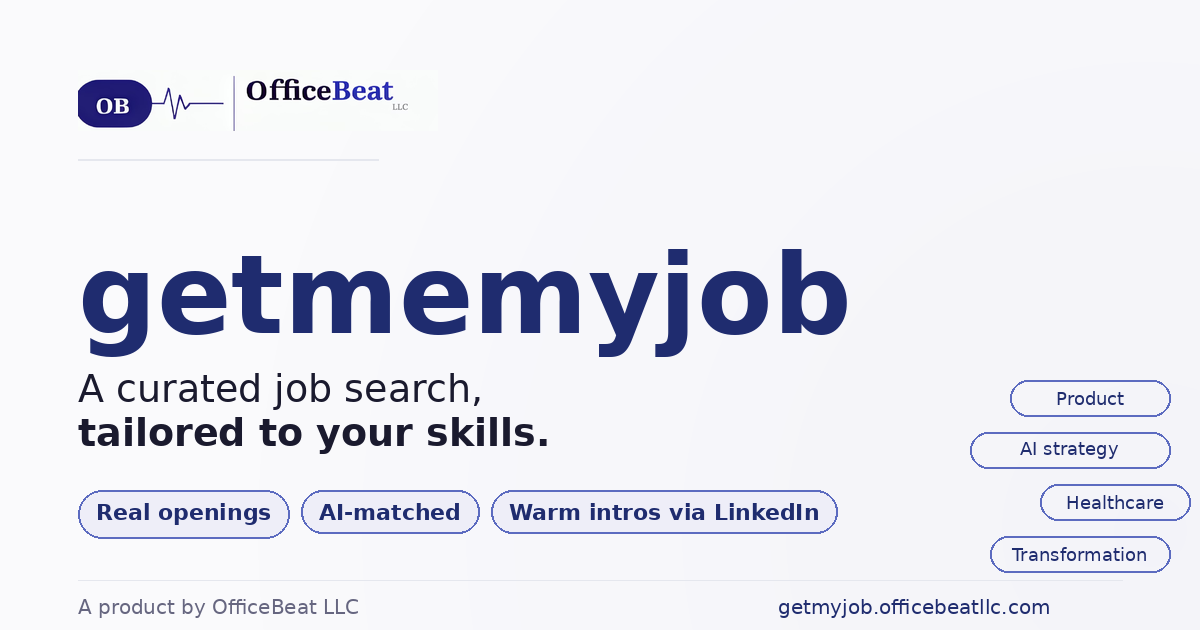
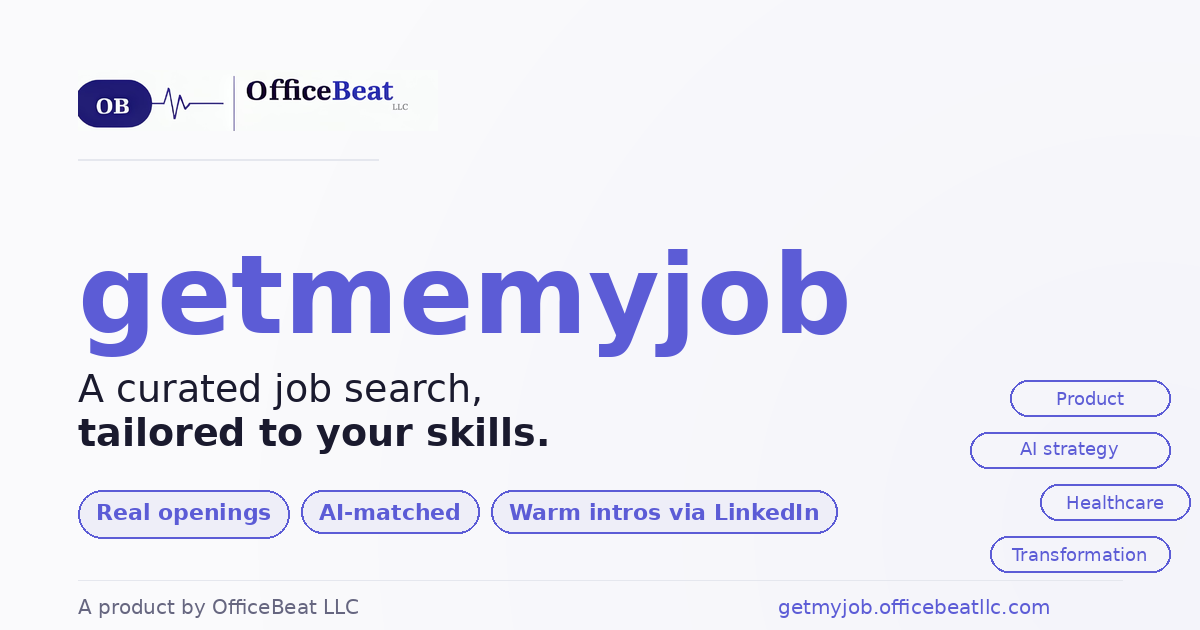
Propagate new indigo palette across getmemyjob subdomain
Unify brand color with officebeatllc.com:
- Primary indigo #5C5CD6 replaces navy #1F2C6F across:
  * fetch_jobs.py per-user dashboard template (47 instances)
  * admin.html (4 instances)
  * landing.html and index.html (homepage)
- Hover variant: #14205A -> #4B4BBE (indigo-deep)
- favicon.png + favicon-32.png: regenerated with indigo gradient
- og-card.png: regenerated with indigo wordmark and accents

After this, both officebeatllc.com (parent) and
getmyjob.officebeatllc.com (subdomain) share the same palette
from the 'Navigate Complexity, Secure Your Future' deck.

diff --git a/admin.html b/admin.html
@@ -2,12 +2,12 @@
 <html><head><meta charset="utf-8"><title>Admin · getmemyjob</title>
 <style>
   body { font: 14px -apple-system, system-ui, sans-serif; margin: 0; background: #f7f7f8; color: #222; }
-  header { background: #1F2C6F; color: white; padding: 18px 28px; }
+  header { background: #5C5CD6; color: white; padding: 18px 28px; }
   header h1 { margin: 0; font-size: 20px; }
   header .sub { opacity: .85; font-size: 13px; margin-top: 4px; }
   main { padding: 28px; max-width: 980px; margin: 0 auto; }
   .card { background: #fff; border: 1px solid #e2e5ea; border-radius: 8px; padding: 18px 22px; margin-bottom: 22px; }
-  .card h2 { margin: 0 0 12px 0; font-size: 16px; color: #1F2C6F; }
+  .card h2 { margin: 0 0 12px 0; font-size: 16px; color: #5C5CD6; }
   .row { display: flex; gap: 10px; flex-wrap: wrap; align-items: end; }
   label { display: block; font-size: 12px; font-weight: 600; color: #555; margin-bottom: 4px; }
   input[type=text], input[type=email], input[type=password] {
@@ -15,11 +15,11 @@
   }
   .field { flex: 1; min-width: 180px; }
   button {
-    background: #1F2C6F; color: #fff; border: 0; padding: 9px 16px; border-radius: 6px;
+    background: #5C5CD6; color: #fff; border: 0; padding: 9px 16px; border-radius: 6px;
     font-size: 13px; font-weight: 600; cursor: pointer;
   }
-  button:hover { background: #14205A; }
-  button.secondary { background: #f3f4f6; color: #1F2C6F; border: 1px solid #ccd0d6; }
+  button:hover { background: #4B4BBE; }
+  button.secondary { background: #f3f4f6; color: #5C5CD6; border: 1px solid #ccd0d6; }
   button.secondary:hover { background: #e6e8eb; }
   button.danger { background: #c83333; }
   button.danger:hover { background: #a02828; }

diff --git a/index.html b/index.html
@@ -23,8 +23,8 @@
 <link href="https://fonts.googleapis.com/css2?family=Inter:wght@400;500;600;700;800&display=swap" rel="stylesheet">
 <style>
   :root {
-    --navy: #1F2C6F;
-    --navy-deep: #14205A;
+    --navy: #5C5CD6;
+    --navy-deep: #4B4BBE;
     --indigo: #3F3FBA;
     --accent: #5C6BC0;
     --lilac: #E2E2F2;

diff --git a/landing.html b/landing.html
@@ -23,8 +23,8 @@
 <link href="https://fonts.googleapis.com/css2?family=Inter:wght@400;500;600;700;800&display=swap" rel="stylesheet">
 <style>
   :root {
-    --navy: #1F2C6F;
-    --navy-deep: #14205A;
+    --navy: #5C5CD6;
+    --navy-deep: #4B4BBE;
     --indigo: #3F3FBA;
     --accent: #5C6BC0;
     --lilac: #E2E2F2;

diff --git a/fetch_jobs.py b/fetch_jobs.py
@@ -1068,7 +1068,7 @@ def generate_dashboard(conn, user_slug="geetu", user_name="Geetanjali Arora", ou
         cards_html = (
             f"<div style='padding:32px;max-width:640px;margin:30px auto;background:#fff;"
             f"border:1px solid #e2e5ea;border-radius:8px;line-height:1.55;'>"
-            f"<h3 style='margin:0 0 10px 0;color:#1F2C6F;'>No matching jobs yet for {_esc(user_name)}</h3>"
+            f"<h3 style='margin:0 0 10px 0;color:#5C5CD6;'>No matching jobs yet for {_esc(user_name)}</h3>"
             f"<p style='color:#555;font-size:14px;'>Your profile industries: "
             f"<strong>{_esc(', '.join(user_industries[:5]))}</strong>. "
             f"We haven't indexed companies in these industries yet. "
@@ -1078,7 +1078,7 @@ def generate_dashboard(conn, user_slug="geetu", user_name="Geetanjali Arora", ou
         cards_html = (
             f"<div style='padding:32px;max-width:640px;margin:30px auto;background:#fff;"
             f"border:1px solid #e2e5ea;border-radius:8px;line-height:1.55;'>"
-            f"<h3 style='margin:0 0 10px 0;color:#1F2C6F;'>Welcome, {_esc(user_name)}!</h3>"
+            f"<h3 style='margin:0 0 10px 0;color:#5C5CD6;'>Welcome, {_esc(user_name)}!</h3>"
             f"<p style='color:#555;font-size:14px;'>Click the <strong>Resume</strong> button (top-right) and "
             f"upload your resume as PDF or Word. The AI will read it and start matching jobs to your background. "
             f"Your tailored dashboard will appear here after the next refresh.</p></div>"
@@ -1143,7 +1143,7 @@ def _esc(s):
 HTML_TEMPLATE = """<!doctype html>
 <html><head><meta charset="utf-8"><title>Jobs for {user_name}</title>
 <meta name="viewport" content="width=device-width, initial-scale=1, viewport-fit=cover">
-<meta name="theme-color" content="#1F2C6F">
+<meta name="theme-color" content="#5C5CD6">
 <link rel="icon" type="image/png" sizes="32x32" href="favicon-32.png">
 <link rel="icon" type="image/png" sizes="256x256" href="favicon.png">
 <link rel="apple-touch-icon" href="favicon.png">
@@ -1157,7 +1157,7 @@ HTML_TEMPLATE = """<!doctype html>
 <meta name="twitter:image" content="https://getmyjob.officebeatllc.com/og-card.png">
 <style>
   body {{ font: 14px -apple-system, system-ui, sans-serif; margin: 0; background: #f7f7f8; color: #222; }}
-  header {{ background: #1F2C6F; color: white; padding: 18px 28px; position: relative; }}
+  header {{ background: #5C5CD6; color: white; padding: 18px 28px; position: relative; }}
   header h1 {{ margin: 0; font-size: 20px; }}
   header .sub {{ opacity: .85; font-size: 13px; margin-top: 4px; }}
   .header-actions {{ position: absolute; right: 28px; top: 50%; transform: translateY(-50%); display: flex; gap: 8px; }}
@@ -1166,19 +1166,19 @@ HTML_TEMPLATE = """<!doctype html>
   .header-btn:disabled {{ opacity: 0.5; cursor: not-allowed; }}
   .stats {{ display: flex; gap: 24px; padding: 14px 28px; background: white; border-bottom: 1px solid #e5e5ea; }}
   .stat {{ font-size: 13px; }}
-  .stat b {{ font-size: 22px; display: block; color: #1F2C6F; }}
+  .stat b {{ font-size: 22px; display: block; color: #5C5CD6; }}
   .filters {{ padding: 12px 28px; background: white; border-bottom: 1px solid #e5e5ea; display: flex; gap: 12px; }}
   .filters input, .filters select {{ padding: 6px 10px; font-size: 13px; border: 1px solid #ddd; border-radius: 6px; }}
   .grid {{ padding: 18px 28px; display: grid; grid-template-columns: repeat(auto-fill, minmax(380px, 1fr)); gap: 14px; }}
   .card {{ background: white; border-radius: 10px; padding: 14px; box-shadow: 0 1px 3px rgba(0,0,0,0.06); }}
   .row1 {{ display: flex; justify-content: space-between; align-items: flex-start; gap: 8px; }}
-  .title a {{ color: #1F2C6F; text-decoration: none; font-weight: 600; font-size: 15px; }}
+  .title a {{ color: #5C5CD6; text-decoration: none; font-weight: 600; font-size: 15px; }}
   .title a:hover {{ text-decoration: underline; }}
-  .score {{ background: #1F2C6F; color: white; border-radius: 999px; padding: 2px 10px; font-size: 12px; font-weight: 600; }}
+  .score {{ background: #5C5CD6; color: white; border-radius: 999px; padding: 2px 10px; font-size: 12px; font-weight: 600; }}
   .row2 {{ font-size: 12px; color: #666; margin-top: 4px; }}
   .badges {{ margin: 8px 0; display: flex; flex-wrap: wrap; gap: 6px; }}
   .b {{ font-size: 11px; padding: 2px 8px; border-radius: 999px; }}
-  .b.senior {{ background: #e6f0ff; color: #1F2C6F; }}
+  .b.senior {{ background: #e6f0ff; color: #5C5CD6; }}
   .b.remote {{ background: #e6fff0; color: #0a6b3a; }}
   .b.contract {{ background: #f3e6ff; color: #5a1f8a; }}
   .b.ghost {{ background: #fff1e6; color: #a85c00; }}
@@ -1186,12 +1186,12 @@ HTML_TEMPLATE = """<!doctype html>
   .b.fresh {{ background: #fffbe6; color: #8a6d00; font-weight: 600; }}
   .b.week {{ background: #f0e6ff; color: #4b2e9c; }}
   .pill {{ font-size: 12px; padding: 5px 12px; border-radius: 999px; border: 1px solid #ddd; background: white; cursor: pointer; }}
-  .pill.active {{ background: #1F2C6F; color: white; border-color: #1F2C6F; }}
+  .pill.active {{ background: #5C5CD6; color: white; border-color: #5C5CD6; }}
   .actions {{ margin-top: 10px; display: flex; gap: 6px; flex-wrap: wrap; }}
   .btn {{ font-size: 12px; padding: 6px 10px; border-radius: 6px; border: 1px solid #ddd; background: white; cursor: pointer; color: #333; text-decoration: none; display: inline-block; }}
   .btn:hover {{ background: #f0f0f0; }}
-  .btn.primary {{ background: #1F2C6F; color: white; border-color: #1F2C6F; }}
-  .btn.primary:hover {{ background: #14205A; }}
+  .btn.primary {{ background: #5C5CD6; color: white; border-color: #5C5CD6; }}
+  .btn.primary:hover {{ background: #4B4BBE; }}
   .btn.track.applied {{ background: #0a6b3a; color: white; border-color: #0a6b3a; }}
   .btn.track.phonescreen {{ background: #c97a00; color: white; border-color: #c97a00; }}
   .btn.track.onsite {{ background: #7a009c; color: white; border-color: #7a009c; }}
@@ -1214,7 +1214,7 @@ HTML_TEMPLATE = """<!doctype html>
   .app-stat.onsite {{ background: #ead4ff; color: #4b2e9c; }}
   .app-stat.offer {{ background: #ffd9b3; color: #a04500; }}
   .app-stat.rejected {{ background: #e8e8e8; color: #666; }}
-  .app-stat.response {{ background: #1F2C6F; color: white; }}
+  .app-stat.response {{ background: #5C5CD6; color: white; }}
   body.apps-mode .card[data-status="offer"] {{ order: 1; }}
   body.apps-mode .card[data-status="onsite"] {{ order: 2; }}
   body.apps-mode .card[data-status="phonescreen"] {{ order: 3; }}
@@ -1223,7 +1223,7 @@ HTML_TEMPLATE = """<!doctype html>
   .modal-overlay {{ display: none; position: fixed; top: 0; left: 0; right: 0; bottom: 0; background: rgba(0,0,0,0.5); z-index: 100; align-items: center; justify-content: center; padding: 20px; }}
   .modal-overlay.show {{ display: flex; }}
   .modal {{ background: white; border-radius: 12px; padding: 24px; max-width: 600px; width: 100%; max-height: 80vh; overflow-y: auto; }}
-  .modal h3 {{ margin: 0 0 12px 0; color: #1F2C6F; }}
+  .modal h3 {{ margin: 0 0 12px 0; color: #5C5CD6; }}
   .modal pre {{ background: #f5f5f5; padding: 12px; border-radius: 6px; font-size: 12px; overflow-x: auto; white-space: pre-wrap; word-break: break-all; }}
   .modal .copy-btn {{ margin-top: 10px; }}
   .modal-close {{ float: right; cursor: pointer; font-size: 22px; line-height: 1; color: #999; }}
@@ -1232,44 +1232,44 @@ HTML_TEMPLATE = """<!doctype html>
   .prep-status.error {{ color: #a80000; }}
   .prep-section {{ margin: 18px 0; padding-bottom: 18px; border-bottom: 1px solid #eee; }}
   .prep-section:last-child {{ border-bottom: none; }}
-  .prep-label {{ font-size: 12px; font-weight: 700; color: #1F2C6F; text-transform: uppercase; letter-spacing: 0.5px; margin-bottom: 6px; }}
+  .prep-label {{ font-size: 12px; font-weight: 700; color: #5C5CD6; text-transform: uppercase; letter-spacing: 0.5px; margin-bottom: 6px; }}
   .prep-text {{ background: #f7f7f8; padding: 12px; border-radius: 6px; font-size: 13px; white-space: pre-wrap; word-wrap: break-word; line-height: 1.5; font-family: inherit; max-height: 260px; overflow-y: auto; margin: 0 0 8px 0; }}
   .desc {{ font-size: 12.5px; color: #444; margin-top: 6px; line-height: 1.4; }}
   .salary-row {{ margin: 6px 0 2px 0; }}
   .salary {{ display: inline-block; background: #e6fff0; color: #0a6b3a; padding: 2px 10px; border-radius: 6px; font-size: 12px; font-weight: 600; }}
   .tabs {{ display: flex; gap: 4px; border-bottom: 1px solid #e0e0e0; margin: 10px 0 16px 0; }}
   .tab-btn {{ background: none; border: none; padding: 8px 14px; cursor: pointer; font-size: 13px; color: #666; border-bottom: 2px solid transparent; font-weight: 500; }}
-  .tab-btn.active {{ color: #1F2C6F; border-bottom-color: #1F2C6F; font-weight: 700; }}
+  .tab-btn.active {{ color: #5C5CD6; border-bottom-color: #5C5CD6; font-weight: 700; }}
   .tab-panel {{ display: none; }}
   .tab-panel.active {{ display: block; }}
   .dropzone {{ display: block; box-sizing: border-box; width: 100%; border: 2px dashed #c0c8d4; border-radius: 8px; padding: 28px 16px; text-align: center; background: #fafbfc; transition: all 0.15s; cursor: pointer; }}
-  .dropzone:hover, .dropzone.drag {{ background: #eef3fa; border-color: #1F2C6F; }}
-  .dropzone strong {{ display: block; font-size: 14px; color: #1F2C6F; margin-bottom: 4px; }}
+  .dropzone:hover, .dropzone.drag {{ background: #eef3fa; border-color: #5C5CD6; }}
+  .dropzone strong {{ display: block; font-size: 14px; color: #5C5CD6; margin-bottom: 4px; }}
   .dropzone span {{ display: block; font-size: 12px; color: #666; }}
   .version-row {{ display: flex; align-items: center; gap: 10px; padding: 10px 12px; border: 1px solid #e6e8eb; border-radius: 6px; margin-bottom: 6px; background: #fff; }}
-  .version-row.active {{ border-color: #1F2C6F; background: #f3f7fc; }}
+  .version-row.active {{ border-color: #5C5CD6; background: #f3f7fc; }}
   .version-main {{ flex: 1; min-width: 0; }}
-  .version-label {{ font-weight: 600; font-size: 13px; color: #1F2C6F; white-space: nowrap; overflow: hidden; text-overflow: ellipsis; }}
+  .version-label {{ font-weight: 600; font-size: 13px; color: #5C5CD6; white-space: nowrap; overflow: hidden; text-overflow: ellipsis; }}
   .version-meta {{ font-size: 11px; color: #777; margin-top: 2px; }}
-  .version-badge {{ background: #1F2C6F; color: white; font-size: 10px; padding: 2px 7px; border-radius: 10px; font-weight: 700; letter-spacing: 0.3px; }}
+  .version-badge {{ background: #5C5CD6; color: white; font-size: 10px; padding: 2px 7px; border-radius: 10px; font-weight: 700; letter-spacing: 0.3px; }}
   .version-actions {{ display: flex; gap: 4px; }}
   .v-btn {{ background: #f3f4f6; border: 1px solid #ddd; color: #333; padding: 5px 10px; border-radius: 4px; font-size: 11px; cursor: pointer; font-weight: 500; }}
   .v-btn:hover {{ background: #e6e8eb; }}
   .v-btn.danger {{ color: #b00; }}
-  .v-btn.primary {{ background: #1F2C6F; color: white; border-color: #1F2C6F; }}
+  .v-btn.primary {{ background: #5C5CD6; color: white; border-color: #5C5CD6; }}
   /* LinkedIn contacts feature */
   .contact-badge {{ display: inline-flex; align-items: center; gap: 4px; background: #eaf2fb; color: #0a66c2; border: 1px solid #c9defb; padding: 2px 8px; border-radius: 10px; font-size: 11px; font-weight: 600; cursor: pointer; margin-left: 8px; transition: all 0.12s; }}
   .contact-badge:hover {{ background: #d8e7f8; border-color: #0a66c2; }}
   .contact-badge .ic {{ font-size: 12px; line-height: 1; }}
   .contact-row {{ display: flex; flex-direction: column; gap: 6px; padding: 12px 14px; border: 1px solid #e6e8eb; border-radius: 8px; margin-bottom: 10px; background: #fff; }}
   .contact-row .name-line {{ display: flex; justify-content: space-between; align-items: baseline; gap: 10px; flex-wrap: wrap; }}
-  .contact-row .cname {{ font-weight: 700; color: #1F2C6F; font-size: 14px; }}
+  .contact-row .cname {{ font-weight: 700; color: #5C5CD6; font-size: 14px; }}
   .contact-row .ctitle {{ font-size: 12px; color: #555; }}
   .contact-row .cmeta {{ font-size: 11px; color: #888; }}
   .contact-row .crow-actions {{ display: flex; gap: 6px; flex-wrap: wrap; margin-top: 4px; }}
   .contact-row .msg-box {{ background: #f7f9fc; border: 1px solid #e2e7ef; border-radius: 6px; padding: 10px 12px; font-size: 12.5px; line-height: 1.55; color: #1f2a3a; white-space: pre-wrap; font-family: ui-sans-serif, system-ui, sans-serif; margin-top: 6px; }}
   .contact-empty {{ padding: 18px; text-align: center; color: #777; font-size: 13px; }}
-  .contact-summary {{ background:#f3f7fc; border:1px solid #d6e1f1; border-radius:8px; padding:10px 14px; font-size:12px; color:#1F2C6F; margin-bottom:14px; display:flex; justify-content:space-between; align-items:center; gap:10px; flex-wrap:wrap; }}
+  .contact-summary {{ background:#f3f7fc; border:1px solid #d6e1f1; border-radius:8px; padding:10px 14px; font-size:12px; color:#5C5CD6; margin-bottom:14px; display:flex; justify-content:space-between; align-items:center; gap:10px; flex-wrap:wrap; }}
   .contact-summary .clear-btn {{ background: transparent; border: 1px solid #c9defb; color: #0a66c2; padding: 3px 10px; border-radius: 4px; font-size: 11px; cursor: pointer; }}
   .contact-summary .clear-btn:hover {{ background: #fff; }}
   /* ---- First-login wizard ---- */
@@ -1280,22 +1280,22 @@ HTML_TEMPLATE = """<!doctype html>
   .wiz-progress {{ display: flex; gap: 6px; margin-bottom: 22px; }}
   .wiz-progress .dot {{ width: 28px; height: 4px; border-radius: 2px; background: #E2E2F2; }}
   .wiz-progress .dot.done {{ background: #5C6BC0; }}
-  .wiz-progress .dot.active {{ background: #1F2C6F; }}
-  .wiz-title {{ font-size: 24px; font-weight: 700; color: #1F2C6F; margin: 0 0 10px 0; line-height: 1.2; }}
+  .wiz-progress .dot.active {{ background: #5C5CD6; }}
+  .wiz-title {{ font-size: 24px; font-weight: 700; color: #5C5CD6; margin: 0 0 10px 0; line-height: 1.2; }}
   .wiz-body {{ font-size: 14.5px; color: #333; line-height: 1.55; margin: 0 0 22px 0; }}
   .wiz-body p {{ margin: 0 0 10px 0; }}
   .wiz-body ul {{ padding-left: 20px; margin: 8px 0; }}
   .wiz-body li {{ margin-bottom: 4px; }}
-  .wiz-body strong {{ color: #1F2C6F; }}
+  .wiz-body strong {{ color: #5C5CD6; }}
   .wiz-actions {{ display: flex; gap: 10px; align-items: center; flex-wrap: wrap; }}
-  .wiz-btn-primary {{ background: #1F2C6F; color: #fff; border: none; padding: 11px 22px; border-radius: 8px; font-size: 14px; font-weight: 600; cursor: pointer; }}
-  .wiz-btn-primary:hover {{ background: #14205A; }}
+  .wiz-btn-primary {{ background: #5C5CD6; color: #fff; border: none; padding: 11px 22px; border-radius: 8px; font-size: 14px; font-weight: 600; cursor: pointer; }}
+  .wiz-btn-primary:hover {{ background: #4B4BBE; }}
   .wiz-btn-ghost {{ background: transparent; color: #666; border: none; padding: 11px 14px; font-size: 13.5px; cursor: pointer; }}
-  .wiz-btn-ghost:hover {{ color: #1F2C6F; text-decoration: underline; }}
+  .wiz-btn-ghost:hover {{ color: #5C5CD6; text-decoration: underline; }}
   .wiz-skip {{ margin-left: auto; }}
   .wiz-help-btn {{ background: rgba(255,255,255,0.15); border: 1px solid rgba(255,255,255,0.3); color: white; width: 32px; height: 32px; border-radius: 50%; font-size: 14px; font-weight: 700; cursor: pointer; padding: 0; display: inline-flex; align-items: center; justify-content: center; }}
   .wiz-help-btn:hover {{ background: rgba(255,255,255,0.28); }}
-  .wiz-banner {{ position: fixed; top: 80px; left: 50%; transform: translateX(-50%); background: #1F2C6F; color: #fff; padding: 14px 22px; border-radius: 8px; box-shadow: 0 6px 20px rgba(0,0,0,0.25); z-index: 200; font-size: 14px; font-weight: 500; max-width: 90%; text-align: center; }}
+  .wiz-banner {{ position: fixed; top: 80px; left: 50%; transform: translateX(-50%); background: #5C5CD6; color: #fff; padding: 14px 22px; border-radius: 8px; box-shadow: 0 6px 20px rgba(0,0,0,0.25); z-index: 200; font-size: 14px; font-weight: 500; max-width: 90%; text-align: center; }}
 
   /* ---- Mobile responsive ---- */
   @media (max-width: 640px) {{
@@ -1471,7 +1471,7 @@ HTML_TEMPLATE = """<!doctype html>
         <div id="profile-display"><p style="font-size:12px;color:#888;">Loading profile…</p></div>
         <div id="profile-actions" style="margin-top:14px; display:flex; gap:8px; flex-wrap:wrap;">
           <button class="btn primary" id="edit-profile-btn" onclick="openEditProfileModal()">Edit profile</button>
-          <button class="btn" id="regen-profile-btn" onclick="regenerateProfile(this)" style="background:#f3f4f6;color:#1F2C6F;border:1px solid #ccd0d6;">Regenerate from resume</button>
+          <button class="btn" id="regen-profile-btn" onclick="regenerateProfile(this)" style="background:#f3f4f6;color:#5C5CD6;border:1px solid #ccd0d6;">Regenerate from resume</button>
           <span id="regen-profile-status" style="font-size: 12px; color: #555;"></span>
         </div>
       </div>
@@ -1479,12 +1479,12 @@ HTML_TEMPLATE = """<!doctype html>
       <!-- Edit profile modal -->
       <div id="edit-profile-overlay" style="display:none; position:fixed; inset:0; background:rgba(20,30,50,0.45); z-index:60; align-items:center; justify-content:center;" onclick="if(event.target===this)closeEditProfileModal()">
         <div style="background:#fff; padding:24px 28px; border-radius:10px; max-width:640px; width:100%; margin:12px; max-height:88vh; overflow-y:auto; box-shadow:0 24px 60px rgba(0,0,0,0.2);">
-          <h3 style="margin:0 0 6px 0; color:#1F2C6F;">Edit your profile</h3>
+          <h3 style="margin:0 0 6px 0; color:#5C5CD6;">Edit your profile</h3>
           <p style="font-size:13px; color:#555; margin:0 0 16px 0;">Each field is a comma-separated list. Add things the AI missed (e.g. NIST CSF, HIPAA, ISO 27001). Remove anything inaccurate. Saving updates the profile used for job matching.</p>
           <div id="edit-profile-fields"></div>
           <div style="margin-top:18px; display:flex; gap:8px; flex-wrap:wrap;">
             <button class="btn primary" onclick="saveProfileEdits()">Save changes</button>
-            <button class="btn" onclick="closeEditProfileModal()" style="background:#f3f4f6;color:#1F2C6F;border:1px solid #ccd0d6;">Cancel</button>
+            <button class="btn" onclick="closeEditProfileModal()" style="background:#f3f4f6;color:#5C5CD6;border:1px solid #ccd0d6;">Cancel</button>
             <span id="edit-profile-status" style="font-size:12px;color:#555;align-self:center;"></span>
           </div>
         </div>
@@ -1760,7 +1760,7 @@ function refreshTrackerUI() {{
         detailsBtn = document.createElement('button');
         detailsBtn.className = 'btn details-btn';
         detailsBtn.textContent = 'Details';
-        detailsBtn.style.cssText = 'background:#f3f4f6;color:#1F2C6F;border:1px solid #ccd0d6;';
+        detailsBtn.style.cssText = 'background:#f3f4f6;color:#5C5CD6;border:1px solid #ccd0d6;';
         detailsBtn.onclick = (e) => {{ e.stopPropagation(); openAppDetail(fp); }};
         const actions = card.querySelector('.actions');
         if (actions) actions.insertBefore(detailsBtn, actions.querySelector('.ghost-btn'));
@@ -1822,7 +1822,7 @@ function renderFunnel(counts) {{
   const c_offer = counts.offer;
   function stage(label, count, prevCount, color) {{
     const pct = prevCount > 0 ? Math.round(100 * count / prevCount) + '%' : '';
-    return '<div class="funnel-stage" style="flex:1; background:' + color + '; padding:10px 14px; border-radius:8px; color:#1F2C6F; min-width:0;">' +
+    return '<div class="funnel-stage" style="flex:1; background:' + color + '; padding:10px 14px; border-radius:8px; color:#5C5CD6; min-width:0;">' +
       '<div style="font-size:11px; text-transform:uppercase; letter-spacing:0.5px; color:#666; font-weight:600;">' + label + '</div>' +
       '<div style="font-size:22px; font-weight:700; line-height:1.1; margin-top:2px;">' + count + '</div>' +
       (pct ? '<div style="font-size:11px; color:#666; margin-top:2px;">' + pct + ' from prev</div>' : '<div style="font-size:11px; color:#999; margin-top:2px;">&nbsp;</div>') +
@@ -2062,7 +2062,7 @@ function _renderInterviewPrep(qs) {{
   return qs.map((q, i) => {{
     const type = q.type || '';
     return '<div class="prep-section">' +
-      '<div class="prep-label">' + (i+1) + '. ' + _esc(q.q || '') + (type ? ' <span style="background:#eef; color:#1F2C6F; padding:1px 7px; border-radius:10px; font-size:10px; margin-left:6px;">' + type + '</span>' : '') + '</div>' +
+      '<div class="prep-label">' + (i+1) + '. ' + _esc(q.q || '') + (type ? ' <span style="background:#eef; color:#5C5CD6; padding:1px 7px; border-radius:10px; font-size:10px; margin-left:6px;">' + type + '</span>' : '') + '</div>' +
       '<pre class="prep-text">' + _esc(q.a || '') + '</pre>' +
       '</div>';
   }}).join('');
@@ -2239,7 +2239,7 @@ async function loadProfile() {{
       el.innerHTML =
         '<div style="background:#f3f7fc;border:1px solid #d6e1f1;border-radius:10px;padding:22px 24px;text-align:center;">' +
           '<div style="font-size:36px;line-height:1;margin-bottom:8px;">📄</div>' +
-          '<div style="font-size:15px;font-weight:600;color:#1F2C6F;margin-bottom:6px;">No skills profile yet</div>' +
+          '<div style="font-size:15px;font-weight:600;color:#5C5CD6;margin-bottom:6px;">No skills profile yet</div>' +
           '<div style="font-size:13px;color:#555;margin-bottom:16px;line-height:1.5;">Upload your resume (PDF or Word) and our AI will extract your target roles, industries, skills, technologies, and regulations — so the dashboard only shows jobs that actually match you.</div>' +
           '<button class="btn primary" onclick="setResumeTab(\\'upload\\')" style="padding:10px 22px;font-size:13.5px;">Upload your resume →</button>' +
         '</div>';
@@ -2261,19 +2261,19 @@ function _renderProfileHTML(p) {{
     const chips = items.map(s => {{
       const safe = _esc(s);
       const jsSafe = String(s).replace(/'/g, "\\\\'").replace(/"/g, '&quot;');
-      return '<span style="display:inline-flex;align-items:center;background:' + color + ';color:#1F2C6F;padding:3px 4px 3px 9px;border-radius:12px;font-size:11.5px;margin:2px 4px 2px 0;font-weight:500;">' +
+      return '<span style="display:inline-flex;align-items:center;background:' + color + ';color:#5C5CD6;padding:3px 4px 3px 9px;border-radius:12px;font-size:11.5px;margin:2px 4px 2px 0;font-weight:500;">' +
              safe +
              (fieldKey ? '<button onclick="removeChip(\\''+ fieldKey +'\\', \\''+ jsSafe +'\\')" style="background:none;border:0;color:#888;cursor:pointer;padding:0 0 0 6px;font-size:14px;line-height:1;font-weight:600;" title="Remove">&times;</button>' : '') +
              '</span>';
     }}).join('');
     const addBtn = fieldKey
-      ? '<button onclick="addChip(\\''+ fieldKey +'\\')" style="display:inline-block;background:#fafbfc;border:1px dashed #c0c8d4;color:#1F2C6F;padding:3px 11px;border-radius:12px;font-size:11.5px;cursor:pointer;font-weight:500;margin:2px 4px 2px 0;">+ Add</button>'
+      ? '<button onclick="addChip(\\''+ fieldKey +'\\')" style="display:inline-block;background:#fafbfc;border:1px dashed #c0c8d4;color:#5C5CD6;padding:3px 11px;border-radius:12px;font-size:11.5px;cursor:pointer;font-weight:500;margin:2px 4px 2px 0;">+ Add</button>'
       : '';
     const count = items.length > 0 ? (' <span style="color:#999;font-weight:500;">· ' + items.length + '</span>') : '';
     return '<div style="margin-bottom:12px;"><div style="font-size:11px;font-weight:700;color:#555;text-transform:uppercase;letter-spacing:0.4px;margin-bottom:4px;">' + title + count + '</div><div>' + chips + addBtn + '</div></div>';
   }}
   let html = '';
-  if (p.primaryRole) html += '<div style="font-size:14px;color:#1F2C6F;font-weight:600;margin-bottom:4px;">' + _esc(p.primaryRole) + '</div>';
+  if (p.primaryRole) html += '<div style="font-size:14px;color:#5C5CD6;font-weight:600;margin-bottom:4px;">' + _esc(p.primaryRole) + '</div>';
   if (p.summary) html += '<div style="font-size:13px;color:#555;margin-bottom:14px;line-height:1.45;">' + _esc(p.summary) + '</div>';
   html += '<div style="background:#f8f9fb;padding:14px 16px;border-radius:8px;border:1px solid #e6e8eb;">';
   if (p.seniorityLevel) html += '<div style="font-size:12px;color:#777;margin-bottom:8px;">Seniority: <strong style="color:#333;">' + _esc(p.seniorityLevel) + '</strong>' + (p.salaryFloor ? ' · Salary floor ~$' + Number(p.salaryFloor).toLocaleString() : '') + (p.remotePreferred ? ' · Remote preferred' : '') + '</div>';
@@ -2885,18 +2885,18 @@ function _renderResumeHTML(r) {{
   const contact = [p.location, p.phone, p.email, p.linkedin].filter(Boolean).map(x => _escHtml(x)).join(' &nbsp;·&nbsp; ');
   let html = '';
   html += '<div style="text-align:center; margin-bottom:14px;">';
-  html += '<div style="font-size:20px; font-weight:700; color:#1F2C6F; letter-spacing:0.3px;">' + _escHtml(p.name || '') + '</div>';
+  html += '<div style="font-size:20px; font-weight:700; color:#5C5CD6; letter-spacing:0.3px;">' + _escHtml(p.name || '') + '</div>';
   if (contact) html += '<div style="font-size:11.5px; color:#555; margin-top:4px;">' + contact + '</div>';
   html += '</div>';
   if (r.summary) {{
     html += '<div style="margin-bottom:12px;">' + _escHtml(r.summary) + '</div>';
   }}
   if (r.skills && r.skills.length) {{
-    html += '<div style="margin-bottom:14px;"><div style="font-weight:700; color:#1F2C6F; font-size:12px; text-transform:uppercase; letter-spacing:0.5px; border-bottom:1px solid #d0d6e0; padding-bottom:3px; margin-bottom:6px;">Core Skills</div>';
+    html += '<div style="margin-bottom:14px;"><div style="font-weight:700; color:#5C5CD6; font-size:12px; text-transform:uppercase; letter-spacing:0.5px; border-bottom:1px solid #d0d6e0; padding-bottom:3px; margin-bottom:6px;">Core Skills</div>';
     html += '<div style="font-size:12.5px;">' + r.skills.map(s => _escHtml(s)).join(' &nbsp;·&nbsp; ') + '</div></div>';
   }}
   if (r.experience && r.experience.length) {{
-    html += '<div style="margin-bottom:14px;"><div style="font-weight:700; color:#1F2C6F; font-size:12px; text-transform:uppercase; letter-spacing:0.5px; border-bottom:1px solid #d0d6e0; padding-bottom:3px; margin-bottom:6px;">Experience</div>';
+    html += '<div style="margin-bottom:14px;"><div style="font-weight:700; color:#5C5CD6; font-size:12px; text-transform:uppercase; letter-spacing:0.5px; border-bottom:1px solid #d0d6e0; padding-bottom:3px; margin-bottom:6px;">Experience</div>';
     r.experience.forEach(exp => {{
       html += '<div style="margin-bottom:10px;">';
       html += '<div style="display:flex; justify-content:space-between; gap:10px;"><div><strong>' + _escHtml(exp.title || '') + '</strong> — ' + _escHtml(exp.company || '') + (exp.location ? '<span style="color:#666;"> (' + _escHtml(exp.location) + ')</span>' : '') + '</div>';
@@ -2911,7 +2911,7 @@ function _renderResumeHTML(r) {{
     html += '</div>';
   }}
   if (r.education && r.education.length) {{
-    html += '<div style="margin-bottom:12px;"><div style="font-weight:700; color:#1F2C6F; font-size:12px; text-transform:uppercase; letter-spacing:0.5px; border-bottom:1px solid #d0d6e0; padding-bottom:3px; margin-bottom:6px;">Education</div>';
+    html += '<div style="margin-bottom:12px;"><div style="font-weight:700; color:#5C5CD6; font-size:12px; text-transform:uppercase; letter-spacing:0.5px; border-bottom:1px solid #d0d6e0; padding-bottom:3px; margin-bottom:6px;">Education</div>';
     r.education.forEach(ed => {{
       const line = [ed.degree, ed.field].filter(Boolean).join(' in ');
       html += '<div style="margin-bottom:4px;">' + _escHtml(line) + (ed.school ? ' — ' + _escHtml(ed.school) : '') + (ed.year ? ' <span style="color:#666;">(' + _escHtml(ed.year) + ')</span>' : '') + '</div>';
@@ -2919,7 +2919,7 @@ function _renderResumeHTML(r) {{
     html += '</div>';
   }}
   if (r.certifications && r.certifications.length) {{
-    html += '<div><div style="font-weight:700; color:#1F2C6F; font-size:12px; text-transform:uppercase; letter-spacing:0.5px; border-bottom:1px solid #d0d6e0; padding-bottom:3px; margin-bottom:6px;">Certifications</div>';
+    html += '<div><div style="font-weight:700; color:#5C5CD6; font-size:12px; text-transform:uppercase; letter-spacing:0.5px; border-bottom:1px solid #d0d6e0; padding-bottom:3px; margin-bottom:6px;">Certifications</div>';
     html += '<div>' + r.certifications.map(c => _escHtml(c)).join(' &nbsp;·&nbsp; ') + '</div></div>';
   }}
   return html;
@@ -2979,9 +2979,9 @@ function _buildPrintableHTML(r) {{
   // Letter-paper friendly HTML. Word opens HTML-with-.doc-extension natively.
   return `<!doctype html><html><head><meta charset="utf-8"><title>${{_escHtml((r.personal && r.personal.name) || 'Resume')}}</title>` +
          `<style>body{{font-family:Calibri,Arial,sans-serif;color:#222;font-size:11pt;line-height:1.4;margin:32px 40px;}}` +
-         `h1{{font-size:18pt;margin:0 0 4px 0;color:#1F2C6F;text-align:center;letter-spacing:.5px;}}` +
+         `h1{{font-size:18pt;margin:0 0 4px 0;color:#5C5CD6;text-align:center;letter-spacing:.5px;}}` +
          `.contact{{text-align:center;font-size:10pt;color:#555;margin-bottom:14px;}}` +
-         `h2{{font-size:11pt;color:#1F2C6F;text-transform:uppercase;letter-spacing:.6px;border-bottom:1px solid #c0c8d4;padding-bottom:2px;margin:14px 0 6px 0;}}` +
+         `h2{{font-size:11pt;color:#5C5CD6;text-transform:uppercase;letter-spacing:.6px;border-bottom:1px solid #c0c8d4;padding-bottom:2px;margin:14px 0 6px 0;}}` +
          `.role{{display:flex;justify-content:space-between;gap:10px;font-weight:bold;margin-top:8px;}}` +
          `.dates{{color:#666;font-weight:normal;font-size:10pt;}}` +
          `ul{{margin:4px 0 0 20px;padding:0;}}li{{margin-bottom:2px;}}p{{margin:0 0 6px 0;}}` +
@@ -3290,7 +3290,7 @@ function renderContactsList() {{
     const list = map[normCo].slice().sort((a,b) => (a.last||'').localeCompare(b.last||''));
     const display = list[0].company || normCo;
     html += '<div style="margin-bottom:14px;">';
-    html += '<div style="font-weight:700;color:#1F2C6F;font-size:13px;margin-bottom:6px;">' + _escHtml(display) + ' <span style="color:#888;font-weight:normal;font-size:11px;">(' + list.length + ')</span></div>';
+    html += '<div style="font-weight:700;color:#5C5CD6;font-size:13px;margin-bottom:6px;">' + _escHtml(display) + ' <span style="color:#888;font-weight:normal;font-size:11px;">(' + list.length + ')</span></div>';
     list.forEach(c => {{
       const name = ((c.first || '') + ' ' + (c.last || '')).trim();
       html += '<div style="font-size:12.5px;color:#333;padding:4px 0 4px 10px;border-left:2px solid #eaf2fb;margin-bottom:3px;">';
@@ -3441,7 +3441,7 @@ function openCompanyContactsModal(company, jobTitle, jobUrl, contacts) {{
     if (c.email) {{
       const subj = encodeURIComponent('Quick question about ' + (jobTitle || company));
       const body = encodeURIComponent(msg);
-      html += '<a class="btn" href="mailto:' + _escHtml(c.email) + '?subject=' + subj + '&body=' + body + '" style="text-decoration:none;background:#f3f4f6;color:#1F2C6F;border:1px solid #ccd0d6;">Email instead</a>';
+      html += '<a class="btn" href="mailto:' + _escHtml(c.email) + '?subject=' + subj + '&body=' + body + '" style="text-decoration:none;background:#f3f4f6;color:#5C5CD6;border:1px solid #ccd0d6;">Email instead</a>';
     }}
     html += '</div>';
     html += '</div>';